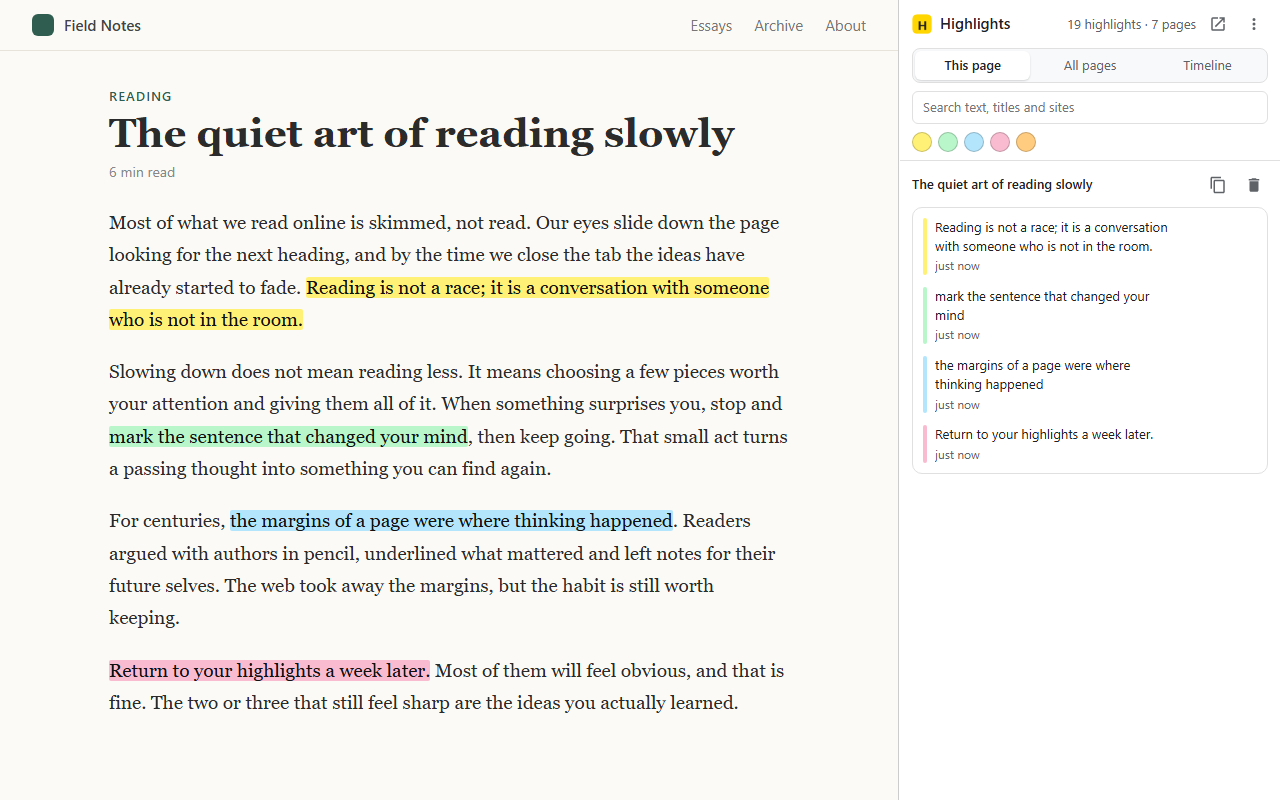
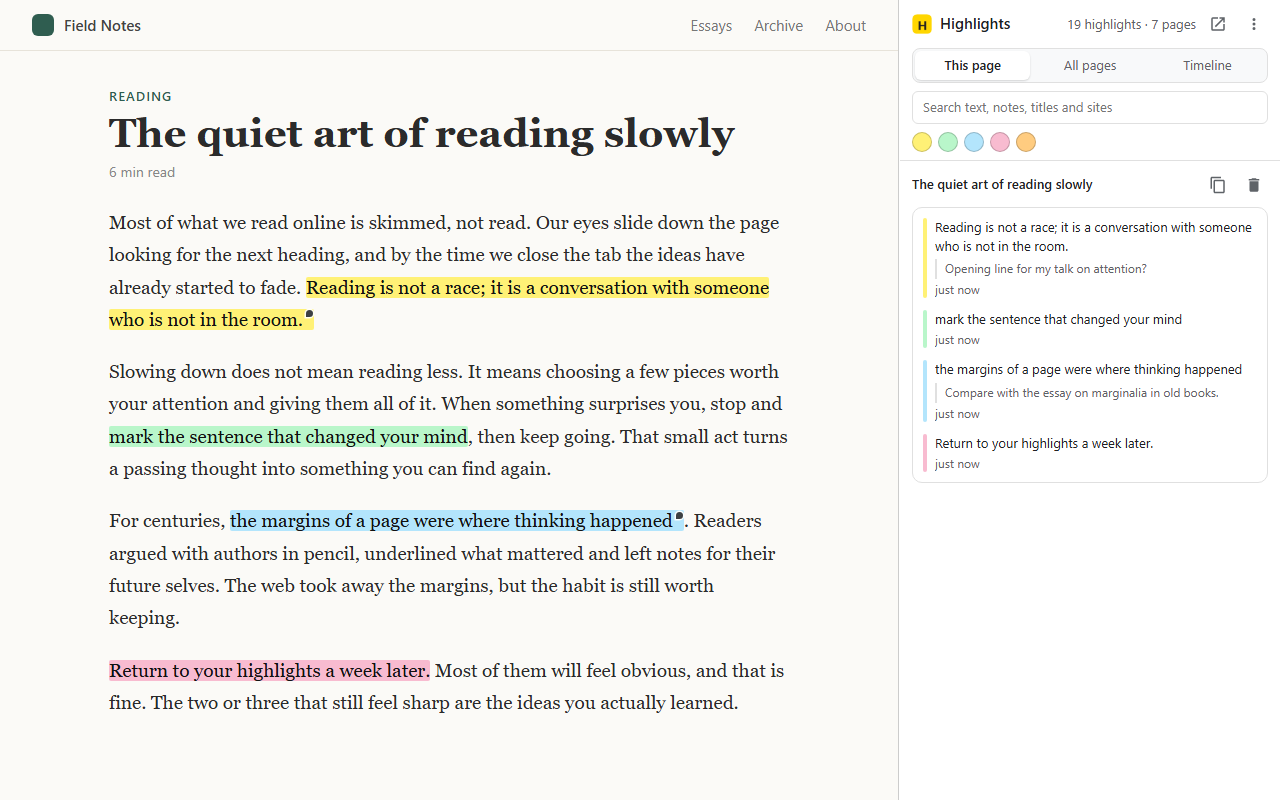
Update store assets for notes and publish the privacy policy
Retake the store screenshots to show notes (5-note.png replaces 5-edit.png),
update the listing and privacy answers, and add notes and a contact email to
the privacy policy. GitLab Pages (.gitlab-ci.yml) publishes docs/ so the
policy has a public URL while the repository stays private.

diff --git a/store/screenshots/article.html b/store/screenshots/article.html
@@ -19,7 +19,7 @@
   </head>
   <body>
     <!-- Sample article for the store screenshots (original text). Open with ?stub to run
-         the extension on it; &scene=marks|toolbar|edit sets up what the screenshot shows. -->
+         the extension on it; &scene=marks|toolbar|edit|note sets up what the screenshot shows. -->
     <header class="site">
       <span class="logo"></span> Field Notes
       <nav><span>Essays</span><span>Archive</span><span>About</span></nav>
@@ -51,13 +51,15 @@
 
     <script src="../../test/load-extension.js"></script>
     <script>
-      // Highlights to create, in order, and what each scene adds on top.
+      // Highlights to create, in order (with an optional note), and what each scene adds on top.
       const MARKS = [
-        ['Reading is not a race; it is a conversation with someone who is not in the room.', 'yellow'],
+        ['Reading is not a race; it is a conversation with someone who is not in the room.', 'yellow', 'Opening line for my talk on attention?'],
         ['mark the sentence that changed your mind', 'green'],
-        ['the margins of a page were where thinking happened', 'blue'],
+        ['the margins of a page were where thinking happened', 'blue', 'Compare with the essay on marginalia in old books.'],
         ['Return to your highlights a week later.', 'pink']
       ];
+      // Typed into the note editor in the "note" scene.
+      const NOTE_DRAFT = 'Set a weekly reminder: review highlights every Sunday morning.';
       const scene = new URLSearchParams(location.search).get('scene');
       window.__sceneReady = !scene; // test/preview.html waits for this before opening its UI
 
@@ -82,12 +84,20 @@
         };
 
         await __hlSend({ type: 'clear' });
-        for (const [phrase, color] of MARKS) {
+        for (const [phrase, color, note] of MARKS) {
           await useColor(color);
           select(phrase);
           await __hlSend({ type: 'highlight-selection' });
+          if (note) {
+            const { id } = HL.store.all().at(-1);
+            HL.marker.setNote(id, note);
+            await HL.store.setNote(id, note);
+          }
         }
         await useColor('yellow');
+
+        const pinkMark = () => document.querySelector('mark.hl-mark[data-hl-color="pink"]');
+        const showNoteEditor = () => HL.toolbar.showNote(pinkMark().getBoundingClientRect(), { text: NOTE_DRAFT });
 
         // Show the toolbars through the same mouseup handling a real click uses.
         const showToolbar = () => {
@@ -103,6 +113,13 @@
             const mark = document.querySelector('mark.hl-mark[data-hl-color="green"]');
             const rect = mark.getBoundingClientRect();
             mark.dispatchEvent(new MouseEvent('mouseup', { bubbles: true, button: 0, clientX: rect.left + 10, clientY: rect.top + 5 }));
+          } else if (scene === 'note') {
+            // Click the highlight (as a user would before pressing the note button), then
+            // open the editor with a note being written.
+            getSelection().removeAllRanges();
+            const rect = pinkMark().getBoundingClientRect();
+            pinkMark().dispatchEvent(new MouseEvent('mouseup', { bubbles: true, button: 0, clientX: rect.left + 10, clientY: rect.top + 5 }));
+            setTimeout(showNoteEditor, 20); // after the edit toolbar the click opens
           }
         };
         showToolbar();
@@ -117,6 +134,8 @@
           } else if (scene === 'edit') {
             const mark = document.querySelector('mark.hl-mark[data-hl-color="green"]');
             HL.toolbar.show(mark.getBoundingClientRect(), { mode: 'edit', color: 'green' });
+          } else if (scene === 'note') {
+            showNoteEditor(); // re-place it for the new window size
           }
         });
         await wait(100);

diff --git a/docs/privacy-policy.html b/docs/privacy-policy.html
@@ -18,7 +18,7 @@
   </head>
   <body>
     <h1>Privacy policy</h1>
-    <p class="muted">Highlight (Chrome extension) · Effective October 27, 2026</p>
+    <p class="muted">Highlight (Chrome extension) · Effective November 20, 2026</p>
 
     <p>
       Highlight lets you highlight text on web pages and keeps a library of those highlights. This policy explains what
@@ -33,6 +33,7 @@
       <tr><td>The text you highlight, plus up to 32 characters before and after it</td><td>To find the same text and highlight it again when you return to the page</td></tr>
       <tr><td>The address (URL) and title of each page where you made a highlight</td><td>To know which page a highlight belongs to and to list pages in the library</td></tr>
       <tr><td>Each highlight's color, position in the page text, and the time you made it</td><td>To show it the way you made it and to sort the library</td></tr>
+      <tr><td>Any note you write on a highlight</td><td>To show it with the highlight and let you search your notes</td></tr>
       <tr><td>Your settings (default color, whether to show the toolbar)</td><td>To remember your preferences</td></tr>
     </table>
     <p>
@@ -77,7 +78,6 @@
     <p>If this policy changes, the new version will be posted on this page with a new effective date.</p>
 
     <h2>Contact</h2>
-    <!-- Replace CONTACT_EMAIL with the address people should use before publishing. -->
-    <p>Questions about this policy: <a href="mailto:CONTACT_EMAIL">CONTACT_EMAIL</a></p>
+    <p>Questions about this policy: <a href="mailto:preveenchandran82@gmail.com">preveenchandran82@gmail.com</a></p>
   </body>
 </html>

diff --git a/store/listing.md b/store/listing.md
@@ -5,8 +5,8 @@ Copy-ready text for the [Developer Dashboard](https://chrome.google.com/webstore
 ## Before you submit
 
 - [ ] Pick the final name. `manifest.json` says **Highlight**, which is generic and likely shared with other extensions. Options: *Highlight & Library*, *Margin — web highlighter*, *Keepmark*. If you change it, update `name` in `manifest.json`.
-- [ ] Replace `CONTACT_EMAIL` in `docs/privacy-policy.html`, then host the page (see "Privacy policy" below).
-- [ ] Bump `version` in `manifest.json` if this isn't the first upload, then run `.\store\package.ps1` and upload `dist/highlight-<version>.zip`.
+- [x] Contact email set in `docs/privacy-policy.html`; the page is published with GitLab Pages (see "Privacy policy URL" below).
+- [ ] Bump `version` in `manifest.json` if this isn't the first upload, then run `.\store\package.ps1` and upload `dist/highlight-<version>.zip`. The script leaves the manifest's `key` out of the zip: that key only fixes the ID of the unpacked copy (`liacochebilhgigkfdjfacplcgpiohdf`), and the store gives the item its own ID. Keep `store/extension-key.pem` private and out of git.
 - [ ] Have the screenshots from `store/screenshots/` ready (1280×800 PNG).
 
 ---
@@ -19,7 +19,7 @@ Upload `dist/highlight-<version>.zip` built by `store/package.ps1`.
 
 **Summary** (from `manifest.json`, max 132 characters)
 
-> Highlight words and sentences on any web page. Highlights are saved per page and restored when you come back.
+> Highlight words and sentences on any web page and add notes. Highlights are saved per page and restored when you come back.
 
 **Description**
 
@@ -28,12 +28,13 @@ Highlight words and sentences on any web page, like a highlighter pen, and find 
 
 HIGHLIGHT AS YOU READ
 • Select text and pick one of five colors from the small toolbar, or press Alt+Shift+H.
-• Click a highlight to change its color, copy it, or remove it.
+• Click a highlight to change its color, add a note, copy it, or remove it.
+• Add a note to any highlight. A small badge marks it on the page; hover to read the note.
 • Highlights come back automatically when you return to the page, even if the page has changed a little.
 
 ONE LIBRARY FOR EVERYTHING
 • See every highlight from every page in Chrome's side panel (Alt+Shift+L) or in a full tab.
-• Search highlight text, page titles and sites. Filter by color. Sort by date, site or number of highlights.
+• Search highlight text, notes, page titles and sites. Filter by color. Sort by date, site or number of highlights.
 • Browse page by page, or as a timeline with the newest first.
 • Click any highlight to jump straight to it on its page.
 • Recolor or delete from the library, with undo. Open tabs update instantly.
@@ -59,11 +60,11 @@ Works on most web pages. Chrome doesn't allow extensions on chrome:// pages, the
 
 | File | Shows |
 | --- | --- |
-| `store/screenshots/1-highlight.png` | Highlights on an article and the color toolbar over a selection |
-| `store/screenshots/2-side-panel.png` | The side panel listing the current page's highlights |
-| `store/screenshots/3-library.png` | The full-tab library with highlights grouped by page |
-| `store/screenshots/4-search.png` | Searching all highlights, in timeline view |
-| `store/screenshots/5-edit.png` | Clicking a highlight to recolor, copy or remove it |
+| `store/screenshots/1-highlight.png` | Highlights on an article (badges mark the ones with notes) and the toolbar over a selection |
+| `store/screenshots/2-side-panel.png` | The side panel listing the current page's highlights and their notes |
+| `store/screenshots/3-library.png` | The full-tab library with highlights and notes grouped by page |
+| `store/screenshots/4-search.png` | Searching all highlights and notes, in timeline view |
+| `store/screenshots/5-note.png` | Writing a note on a highlight |
 
 Small promo tile (440×280) and marquee (1400×560) are optional and not included.
 
@@ -71,13 +72,13 @@ Small promo tile (440×280) and marquee (1400×560) are optional and not include
 
 **Single purpose**
 
-> Highlight text on web pages, keep those highlights on the user's device, and let the user browse, search and manage them in a library.
+> Highlight text on web pages and add optional notes to those highlights, keep them on the user's device, and let the user browse, search and manage them in a library.
 
 **Permission justifications**
 
 | Permission | Justification |
 | --- | --- |
-| `storage` | Saves the user's highlights and settings in Chrome's local storage on their device. |
+| `storage` | Saves the user's highlights, the notes they add to them, and their settings in Chrome's local storage on their device. |
 | `unlimitedStorage` | Lets large highlight libraries and imported backups exceed the default local storage quota. Data stays on the device. |
 | `sidePanel` | Shows the highlight library in Chrome's side panel next to the page the user is reading. |
 | `favicon` | Shows each page's icon next to its highlights in the library, using Chrome's local favicon cache. |
@@ -87,10 +88,10 @@ Small promo tile (440×280) and marquee (1400×560) are optional and not include
 
 **Data usage — what user data do you collect?** The store counts data the extension stores locally as "handling" user data, even when it never leaves the device. Tick:
 
-- [x] **Website content** — the highlighted text and a few characters around it.
+- [x] **Website content** — the highlighted text and a few characters around it, plus any note the user writes on a highlight.
 - [x] **Web history** — the URL and title of pages where the user made a highlight, and when.
 
-Leave everything else unticked (no personally identifiable, health, financial, authentication, communications, location or user activity data).
+Leave everything else unticked (no personally identifiable, health, financial, authentication, communications, location or user activity data). Notes are text the user chooses to save next to a highlight, not keystroke logging, so they don't make it "user activity"; they're disclosed under website content and in the privacy policy.
 
 **Certifications** — tick all three:
 
@@ -98,7 +99,7 @@ Leave everything else unticked (no personally identifiable, health, financial, a
 - [x] I do not use or transfer user data for purposes that are unrelated to my item's single purpose.
 - [x] I do not use or transfer user data to determine creditworthiness or for lending purposes.
 
-**Privacy policy URL:** where `docs/privacy-policy.html` is hosted. With GitHub, push this repo, open **Settings → Pages**, choose **Deploy from a branch**, branch `main`, folder `/docs`, and use `https://<user>.github.io/<repo>/privacy-policy.html`.
+**Privacy policy URL:** `docs/` is published by GitLab Pages (`.gitlab-ci.yml`) from the private project `tools9595147/highlight-and-notes-chrome-extension`. In GitLab, set **Settings → General → Visibility → Pages** to **Everyone**, then copy the address from **Deploy → Pages** and add `/privacy-policy.html` (normally `https://tools9595147.gitlab.io/highlight-and-notes-chrome-extension/privacy-policy.html`).
 
 ## Distribution tab
 
